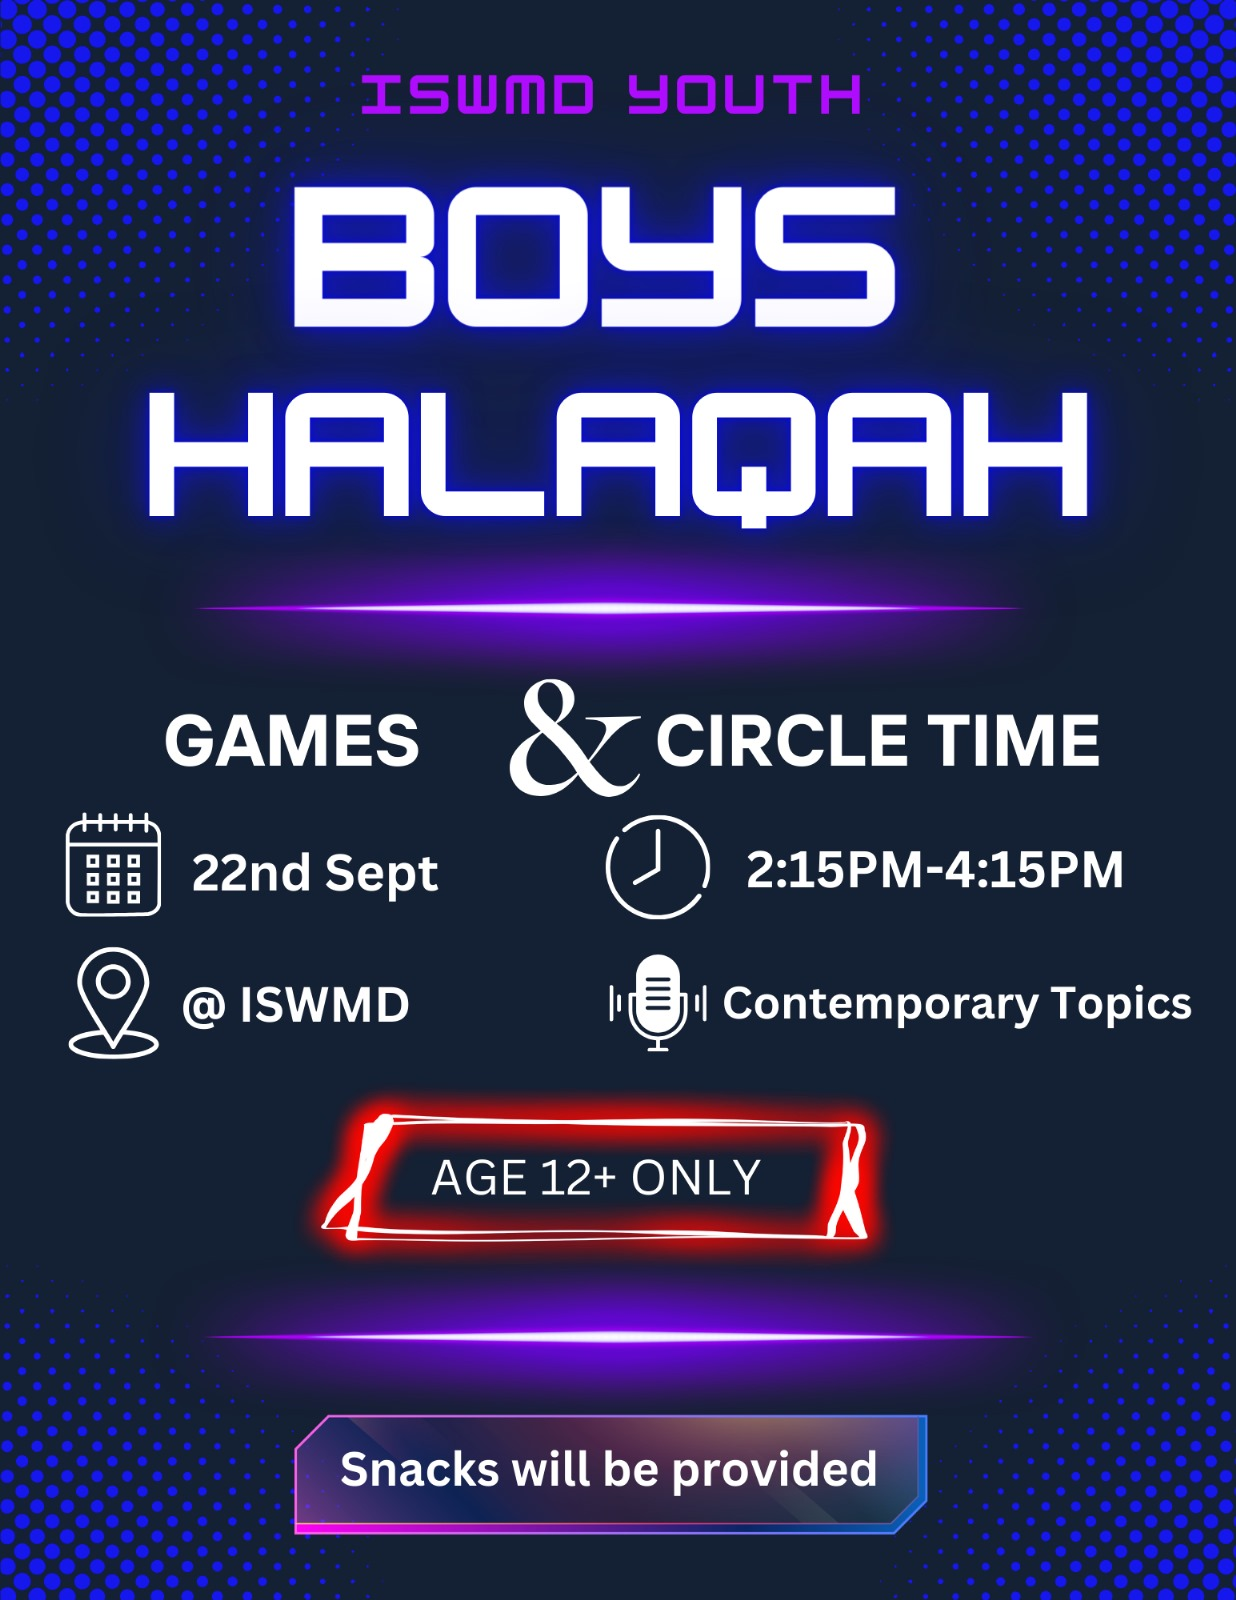
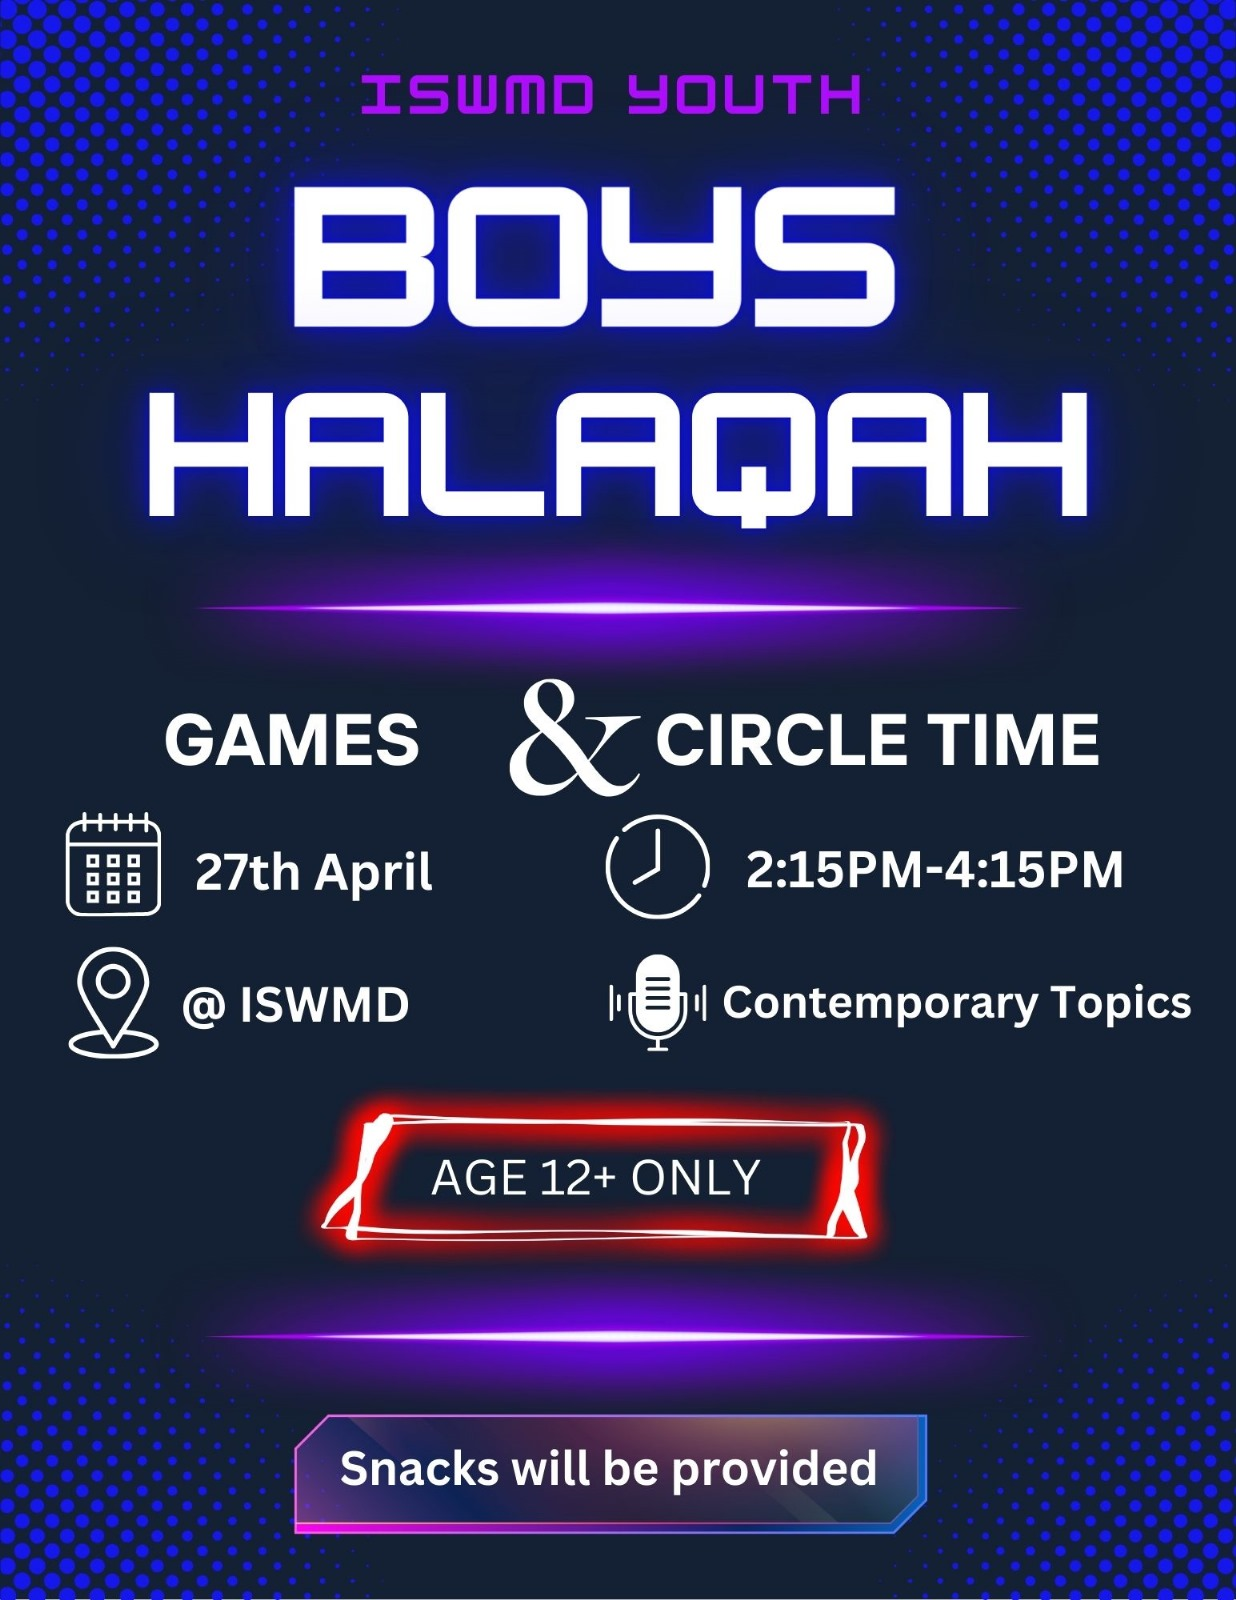
Updated announcements

diff --git a/index.html b/index.html
@@ -132,6 +132,34 @@
                 <div class="card mx-auto" style="width: 90%; height: 45%;">
                     <br>
                     <div class="card-body">
+                        <img class="card-img-top" src="assets/girls-halaqah.jpg" alt="Card image cap" height="675" width="300" style="float: left; padding: 3px 3px 10px 3px">
+  
+                        <h5 class="card-title">Girl's Halaqah</h5>
+                        <p class="card-text"> April 27th, 2:15-4:15. Ages 12+ only.</p>
+                         <hr>
+                    </div>
+                </div>
+            </div>
+          <br>
+            
+          <div class="row">
+            <div class="card mx-auto" style="width: 90%; height: 45%;">
+                <br>
+                <div class="card-body">
+                    <img class="card-img-top" src="assets/boys-halaqah.jpg" alt="Card image cap" height="675" width="300" style="float: left; padding: 3px 3px 10px 3px">
+
+                    <h5 class="card-title">Boy's Halaqah</h5>
+                    <p class="card-text"> April 27th, 2:15-4:15. Ages 12+ only.</p>
+                     <hr>
+                </div>
+            </div>
+        </div>
+      <br>
+            
+            <div class="row">
+                <div class="card mx-auto" style="width: 90%; height: 45%;">
+                    <br>
+                    <div class="card-body">
                         <img class="card-img-top" src="assets/sunday-school.jpg" alt="Card image cap" height="675" width="300" style="float: left; padding: 3px 3px 10px 3px">
   
                         <h5 class="card-title">Sunday School</h5>
